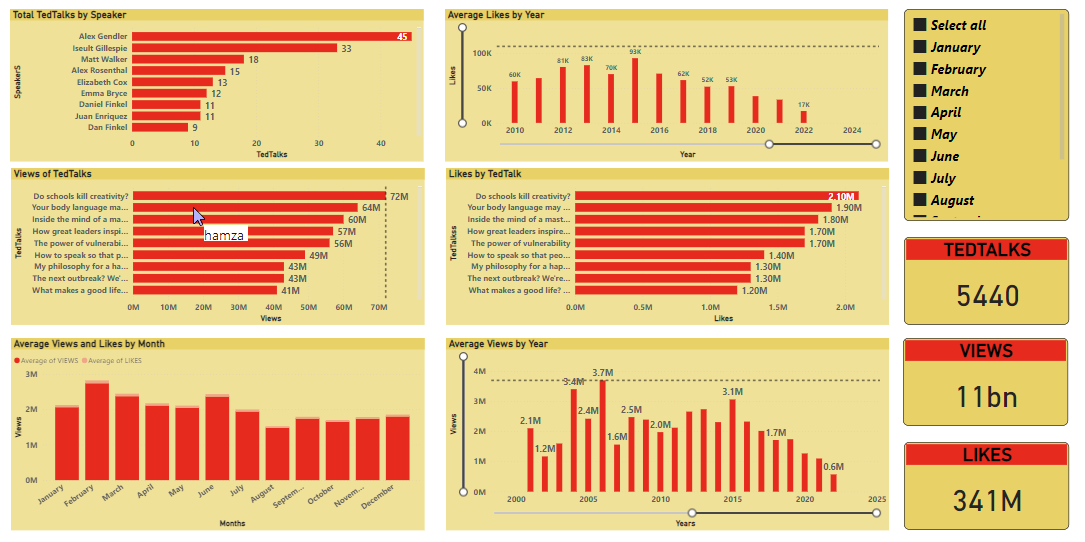
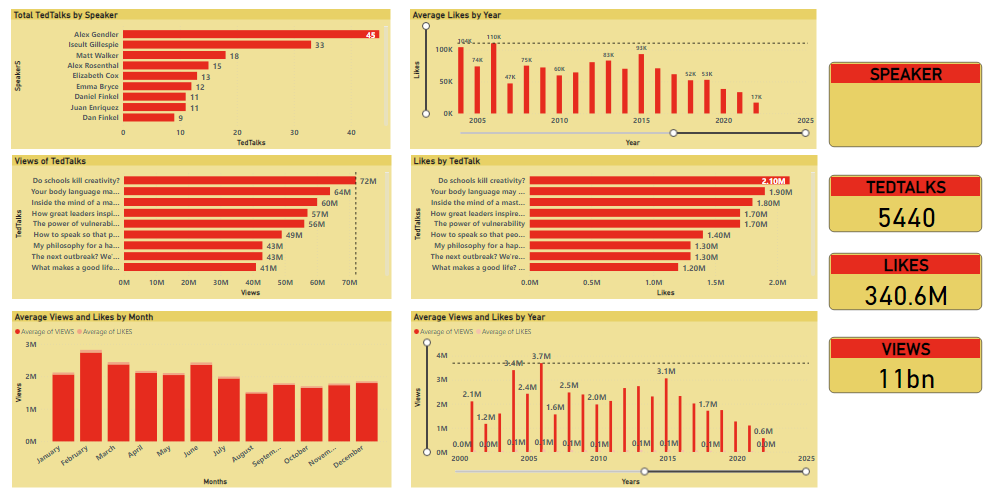
added screenshots

diff --git a/README.md b/README.md
@@ -1,8 +1,12 @@
-# TedTalks_Dashboard
+# PROJECTS
+## TEDTALKS DATA VISUALIZATION:
+![Dashboard_screenshot](Screenshots\ss1.png)
 
-### Test Dashboard
+![Dashboard_screenshot](Screenshots/ss2.png)
 
+<br> Most successful Ted Talk was **Do schools kill creativity by speaker** by **Sir Ken Robinston** with most views **(72M)** and likes **(2.1M)** on average in February and most popular year (based on average views) 2006.  
 
-Testing my dashboard
+<br> Top speaker was **Alex Gandler** with **5.7M** likes and **187M** views.
 
-![Dashboard_screenshot](Screenshots/SS1.png)
+## EMPLOYEE DATA VISUALIZATION:
+![Dashboard_screenshot](Screenshots\ss3.png)
